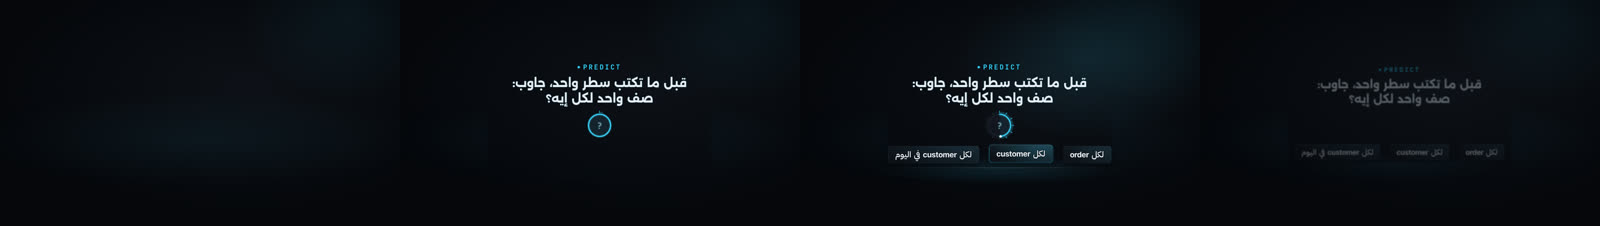
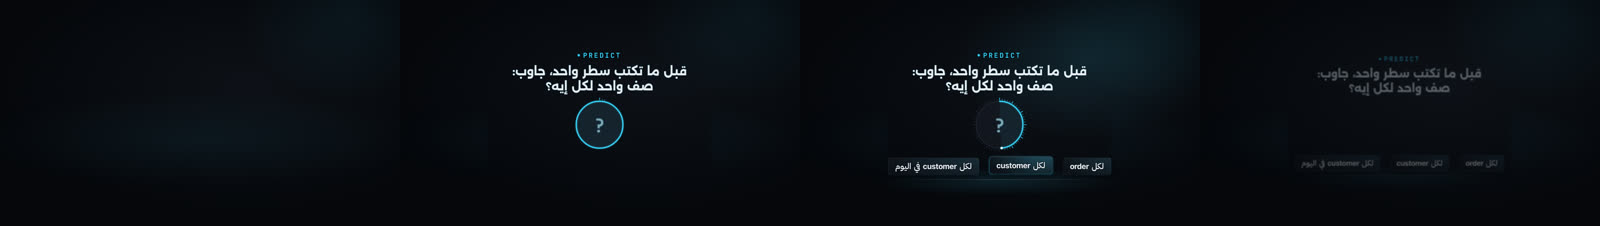
P7 typeui: PredictionTimer finished (dial enlarged; snap PASS det 0 qa 0, baselines pending-critic; perf lite 0.072 / standard 0.104 / hero 0.101 box s/frame; Arabic QA pass)
Claude-Session: https://claude.ai/code/session_01VrU9wxU8GmuhdhWAAHnnQ8

diff --git a/studio/src/components/PredictionTimer/PredictionTimer.tsx b/studio/src/components/PredictionTimer/PredictionTimer.tsx
@@ -75,7 +75,7 @@ export const PredictionTimerView: React.FC<DcProps<Props>> = ({props, ctx}) => {
   const scanP = thinking ? 0.5 - 0.5 * Math.cos(2 * Math.PI * (clk % 1)) : 0;
   const breath = thinking ? 0.5 + 0.5 * Math.sin(2 * Math.PI * clk) : 0.35;
   const warm = tr < 0 && thinking ? 1 - interpolate(drain, [0.16, 0.28], [0, 1], clamp) : 0; // last quarter: signal -> warn
-  const R = Math.round(fs * 1.55);
+  const R = Math.round(fs * 2.0);
   const SW = Math.max(3, Math.round(fs * 0.085));
   const Rt = R + Math.round(SW * 3.4); // outer edge of the tick ring
   const D = 2 * Rt;
@@ -201,7 +201,7 @@ const textRect = (p: Props, box: Rect): Rect => {
   const lines = questionLines(p.question_ar);
   const longest = Math.max(...lines.map(visLen), ...(p.options ?? []).map((o) => visLen(o) * OPT_K * 1.6));
   const w = Math.min(box.w, fs * 0.6 * longest + fs * 1.6);
-  const h = Math.min(box.h, fs * 1.6 * lines.length + fs * 5.4 + SIZE.label * 1.6 + (p.options ? SIZE.body * 2.6 : 0));
+  const h = Math.min(box.h, fs * 1.6 * lines.length + fs * 6.2 + SIZE.label * 1.6 + (p.options ? SIZE.body * 2.6 : 0));
   return {x: box.x + (box.w - w) / 2, y: box.y + (box.h - h) / 2, w, h};
 };
 

diff --git a/docs/p7/catalog_status/typeui.md b/docs/p7/catalog_status/typeui.md
@@ -7,3 +7,4 @@
 | ChapterCard | implemented | Trunk chapter title card: `CH-xx` mono tag with a drawing hairline, the Arabic title (display face, `arrive` RTL whole-string wipe, auto-fit to 60 %), English subtitle in Inter Tight, and the act colour bar as an act rail (04 §6 metaphor: one segment per trunk act of the master EDL, current act lit and emissive, earlier acts dim signal, later acts grid, act label hung under the lit segment). Light per ADR-003 LK-F: key haze from the upper right, floor pool, outlined ghost index numeral far behind drifting slowly into depth, exit = slide back into depth. Tag, title and first rail segment inked on the anchor frame (RV1), rail fills right to left, subtitle +3 f and act label +5 f on `label`. 2D only (catalog implies no 3D), so hero = standard. Demo = CH-10 exactly as locked in the EDL (title_ar, title_en, act SQL). No number shown, so no data-contract ref is needed (the index and `CH-10` come from the EDL chapter id). Baselines pending-critic. Snap PASS det 0 qa 0. Perf box s/frame at 3 slots: lite 0.074, standard 0.102, hero 0.105 (budgets 0.201 / 0.201 / 1.038). Arabic QA: on-screen OCR 0.92-0.94 (>= 0.9), tofu 0, per-letter 0; the standalone `dc qa arabic --string` reports BIDI-MULTIWORD on the raw EDL title (`Relational Model` = two isolates) and, once wrapped, BIDI-WRAP because that probe wraps at a fixed container; the real card sets the Latin run as one isolate through `Mx` (CR-006 helper) on a single nowrap line, and snap QA reports 0 findings. Open note: the ACTS list in the component mirrors the EDL act order (layout data); an unknown act leaves the rail unlit. |
 | TermChip | implemented | A technical term on an emissive glass pill with an optional Arabic gloss. The term is mono Latin in an LTR isolate (Arabic terms go through MixedText with the ADR-010 join gap), the gloss is one whole Arabic string 2 film frames later on `label` (RTL fade + rise). Light per ADR-003 LK-F: key rim light from the upper right on a gradient border, 12 px backdrop blur from standard up, a closest-side emissive pool that ramps with the wipe, a 4 px whole-pixel frame-driven float. Pill arrives on the anchor with an LTR `arrive` wipe (RV1). Kinds: `term` leading dot, `acronym` tracked caps (ok green), `code` darker stock with square-ish corners, `metric` accent underline. 2D only, so hero = standard. Demo = idempotency, SLO, GROUP BY department, p95 (glossary terms, no numbers, so no data-contract ref). Distinct from LowerThird (source plate at the slot edge) and KineticWord (no plate). Baselines pending-critic; critic round 2 approved 8/10. Snap PASS det 0 qa 0. Perf box s/frame: lite 0.107, standard 0.118, hero 0.094 (budgets 0.201 / 0.201 / 1.038). Arabic QA pass. Open (non-blocking): wipe strip for the G8 pilot, faint shelf at 6x gain. |
 | DeepDiveCard | implemented | Deep-Dive entry card (04 §7 identity, 04 §6 rail metaphor): the parent trunk chapter is a lit node on a ticked trunk rail (time reads right to left), a violet branch leaves the node and merges tangentially into the rim of a glass slab, and a dim dashed return arc rises from the slab's end side back onto the rail (the deep dive leaves the trunk and returns). Slab: rim-lit gradient frame (key from the upper right), warm-violet haze, floor pool, far-plane ghost `Pxx` numeral, two ripple rings leaving the node, `DEEP DIVE · Pxx` tag pill, Arabic title (`arrive` RTL whole-string wipe, one `Mx` string, auto-fit floor 56 px), English subtitle, `PREREQ` caption plus mono prerequisite chips (graph `label_en`, Latin only). Frame, rail, tag and title ink on the anchor frame (RV1); branch +2 f, subtitle +3 f, chips 2 film frames apart from +5 f, return arc after the last chip; exit = slide back and fade. 2D only (catalog implies no 3D), so hero = standard. Demo = DD-P23 as locked in the EDL (parent CH-33, `title_ar` exact; `title_en` shortened to the 48-char schema cap) with the pack's prerequisite concepts (`c:embedding`, `c:chunk`, `c:knn`, from `corpus/packs/DD-P23.json` prereqs.table). No number shown, so no data-contract ref. Distinct from ChapterCard (act rail on a trunk title, no branch) and LowerThird (source plate). Baselines pending-critic. Snap PASS det 0 qa 0 (one earlier run under heavy queue load showed det 1187 px once, 0 on all four later runs including the approve run). Perf box s/frame at 3 slots: lite 0.094, standard 0.103, hero 0.104 (budgets 0.201 / 0.201 / 1.038). Arabic QA: `المعنى كموضع` and all Latin strings pass (`reports/qa/arabic/DeepDiveCard.json`). Open note: the full title `Embeddings والـRAG والـAgents: المعنى كموضع` scores 0.757 in the standalone/frame-crop probe (`DeepDiveCard-title-onscreen.json`, RT-010-2 evidence): tesseract reads every word, in logical order (`Embeddings وال RAG وال :Agents المعنى كموضع`), but the tool expects the three Latin isolates in screen order, so its Latin-stream comparison mismatches; the title is the EDL string and cannot change. Native-reader check at G8. |
+| PredictionTimer | implemented | Prediction beat (04 §4 pause, 04 §6 dial metaphor): `PREDICT` mono tag, the Arabic question (whole lines, `arrive` RTL wipe, at most 2 lines of 32 chars via `breakCaption`), a 60-tick glass dial and 2-4 option cards on one baseline (>= 40 px apart, AT-4). Once the options are on screen the clock runs to the `reveal` anchor (linear, the one allowed linear motion): the signal arc and tick ring drain clockwise with a comet head, a time-left sector, a far-plane dashed orbit and a breathing `?`; a scan pulse lifts one option at a time; the last quarter warms signal to warn. On the `reveal` frame the dial bursts (impact flash plus shockwave) and the question and options recede into depth, handing over to the answer layer (no `answer` prop in the frozen schema, so each option is a `data-dc-part="opt<i>"` target for Spotlight / CalloutArrow). No countdown digits (a number would need a data ref). Light per ADR-003 LK-F: key haze from the upper right, rim-lit card borders, floor pool and hairline. 2D only, so hero = standard. Demo = the CH-11 grain question (corpus text) with three candidate answers; no number shown. Baselines pending-critic. Snap PASS det 0 qa 0. Perf box s/frame at 3 slots: lite 0.072, standard 0.104, hero 0.101 (budgets 0.201 / 0.201 / 1.038). Arabic QA pass (`reports/qa/arabic/PredictionTimer.json`, OCR 5/5 exact). |
